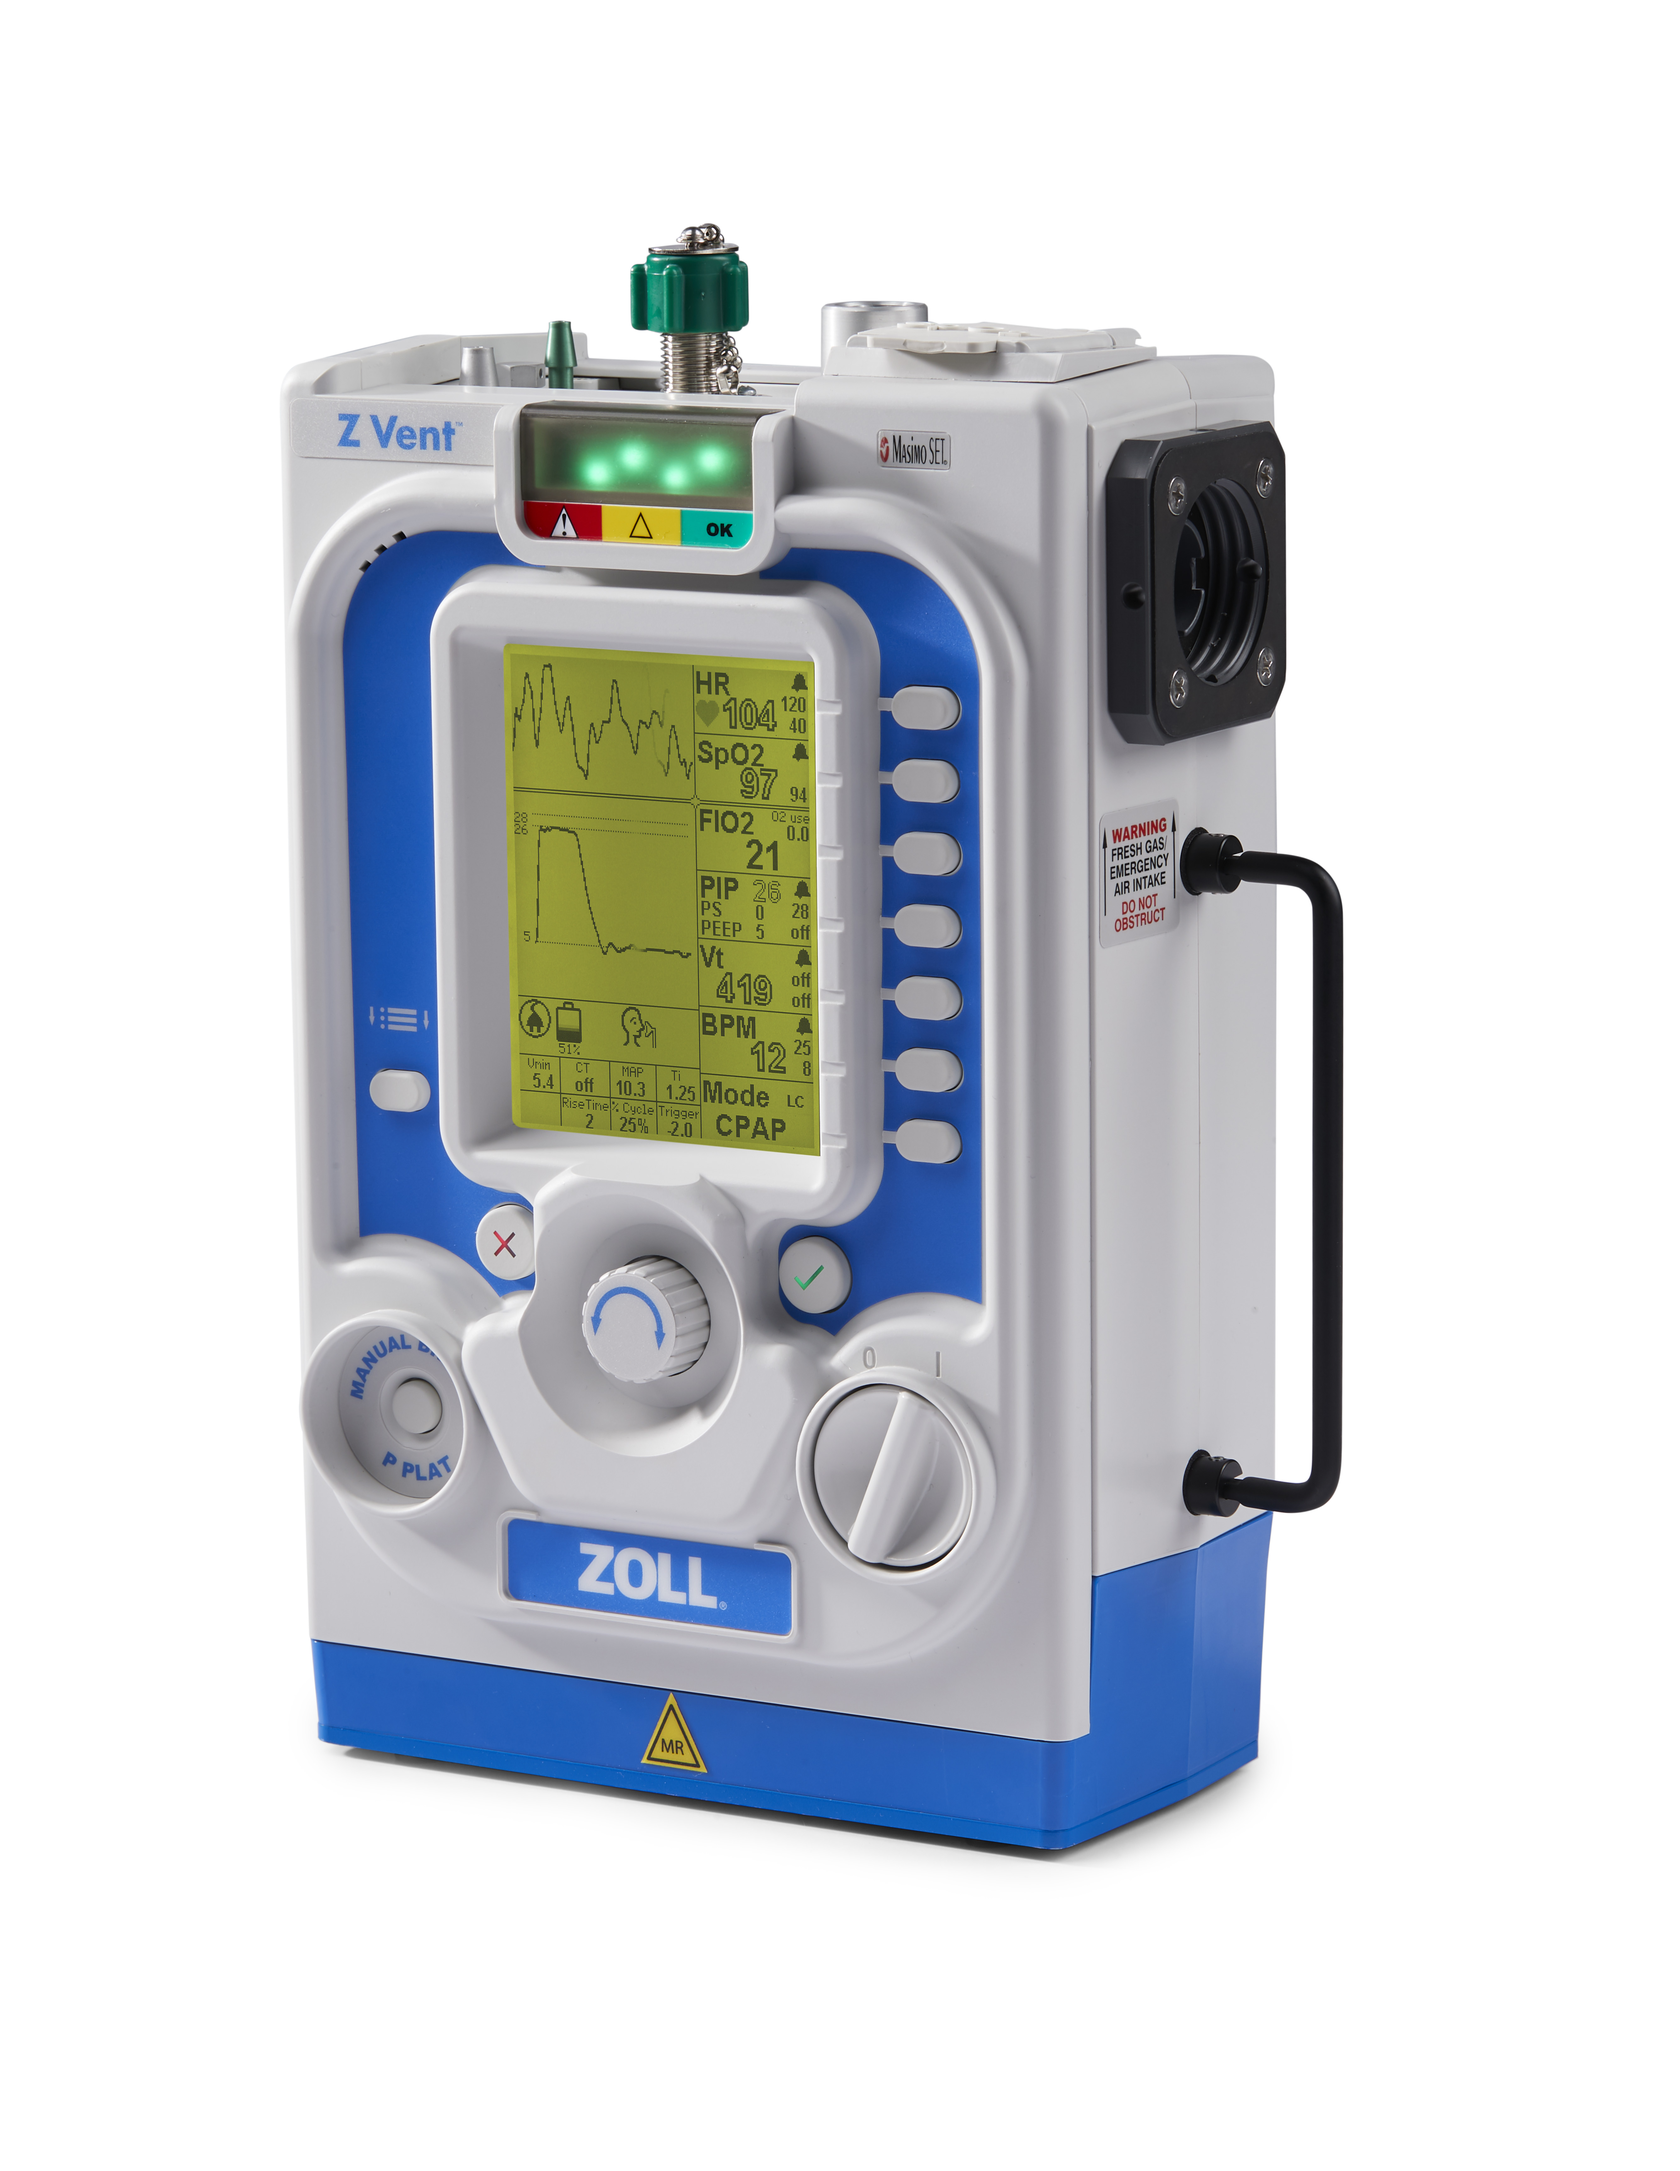
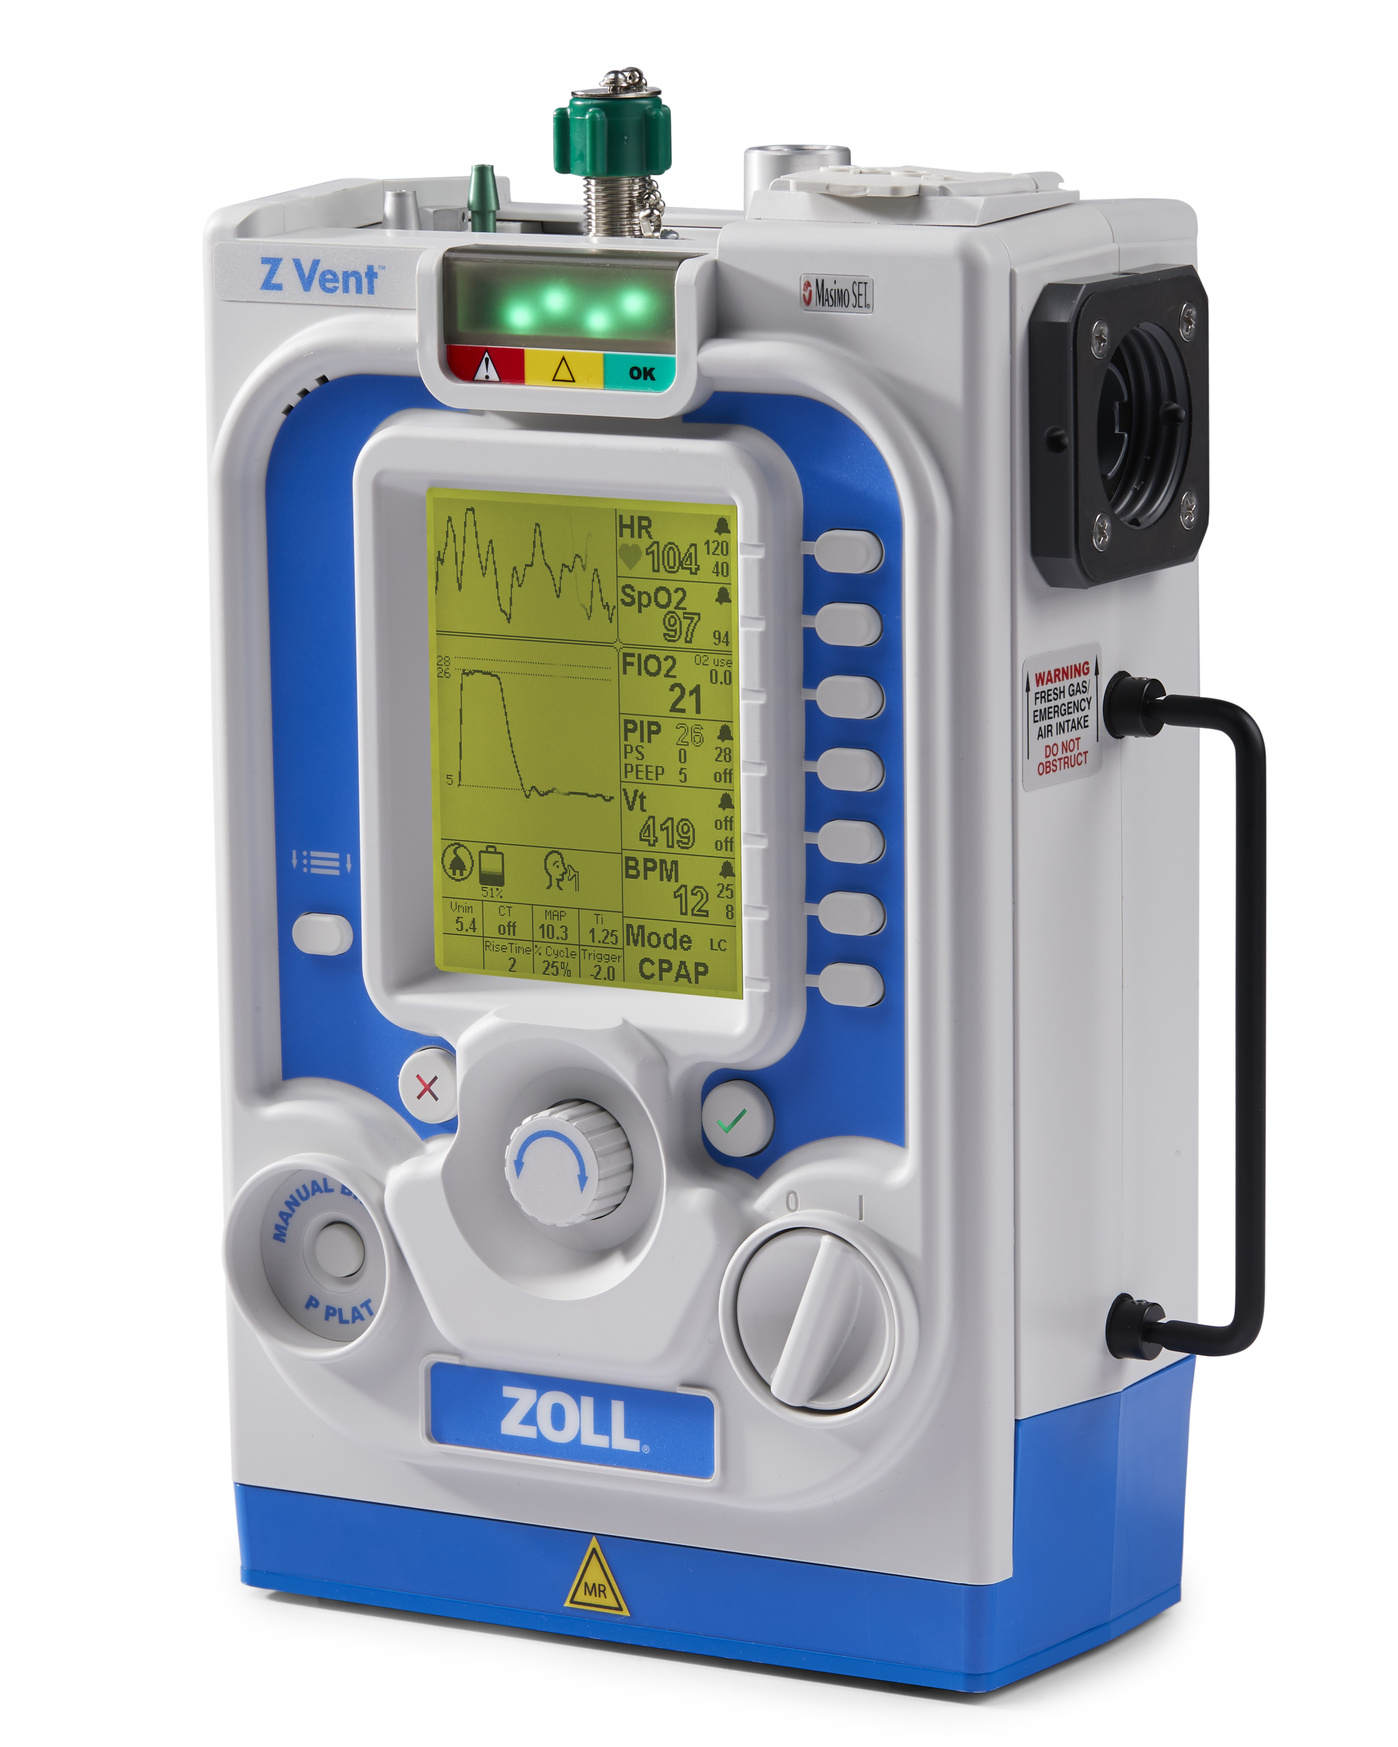
Cropped images and re-added horizontal row to entries on projects page.

diff --git a/projects.html b/projects.html
@@ -35,6 +35,7 @@
 
             <div id ="entries">
               <h2>ZOLL Ventilator Graphics | Winter 2025</h2>
+              <hr>
               <p>I designed new labeling and contributed to the User Manual for the <a href="https://www.zoll.com/en-us/products/emergency-care/ventilators/z-vent" target="blank">ZOLL Z Vent device</a>. This included creating a repository of device screens and icons in Adobe Illustrator that could easily be manipulated during a live working session to help flesh out proposed changes.</p>
               <img src="/portfolio/images/ZVent_Str_Angle.jpg" style="width:40%" class="center">
             </div>
@@ -49,6 +50,7 @@
 
             <div id="entries">
               <h2>Experimenting in the Bedroom | Spring 2020</h2>
+              <hr>
               <p>As the final project that I would complete as an undergraduate, I wanted to do something to affect change in a community I was embedded in. Other problem spaces that I considered working with included digital surveillance and a lack of personal privacy, as well as issues raised by the COVID-19 pandemic.</p>
               <p>This project consolidates knowledge, experience, and unmet needs from the greater community of queer and gender non-conforming individuals through my social networks. I utilized a set of anonymous surveys to collect this stakeholder feedback and to co-design with the community.</p>
               <img src="/portfolio/projectfiles/thesis/SP pinup.png" style="width:75%" class="center">
@@ -60,6 +62,7 @@
 
             <div id="entries">
               <h2>INTERVENTIONS | Spring 2020</h2>
+              <hr>
               <p>Environmental racism, food injustice, and waste colonialism are all systematic ways in which the marginalized are oppressed. By taking advantage of their inability to fight back, those with can further the gap between themselves and those without. While the systems and policies that produce these conditions vary, the points of intervention can often overlap at a protest.</p>
               <img src="/portfolio/projectfiles/trojan/trojan.jpg" style="width:75%" class="center">
               <p>From its initial conception, this project was meant to create an experience so that victims of environmental injustices can ground those with power into their realities. Walking in someone’s footsteps has a stronger impact than simply communicating statistics, which can feel more abstract. The common thread between all of the group members’ concepts was a desire to protect and empower those who were pushing for change.</p>
@@ -81,24 +84,26 @@
             </div>
 
             <div id="entries">
-              <h2>Human Factors Engineering <a href="https://www.jnjmedicaldevices.com/en-US/companies/depuy-synthes" target="_blank">@ Johnson & Johnson</a> | Fall 2019 </h2>
+              <h2>Human Factors Engineering @ Johnson & Johnson IDHF | Fall 2019</h2>
+              <hr>
               <p>Human Factors Engineering (HFE) is a discipline that aims to improve ease of use and mitigate risk of user error, particularly in the nuclear, aerospace, and medical industries.</p>
-              <p>During the duration of my Arch Away semester, I had the opportunity to work for DePuy Synthes, one of the many companies under the Johnson & Johnson umbrella. As one of the largest manufacturers of orthopedic implants and neurosurgery products, DePuy Synthes has ongoing projects in trauma and spine, which I was able to support as a co-op.</p>
+              <p>During the duration of my Arch Away semester, I had the opportunity to work for <a href="https://www.jnjmedtech.com/en-US/companies/depuy-synthes" target="_blank">Depuy Synthes</a>, one of the many companies under the Johnson & Johnson umbrella. As one of the largest manufacturers of orthopedic implants and neurosurgery products, DePuy Synthes has ongoing projects in trauma and spine, which I was able to support as a co-op.</p>
               <img src="/portfolio/projectfiles/deliverable timeline.png" style="width:75%" class="center">
               <p>I worked within the Industrial Design and Human Factors (IDHF) department, which leads contextual research to discover unmet user needs, creates usability specifications and requirements, and iteratively tests with stakeholders throughout a robust formative and summative usability process. The team also designs and evaluates user interfaces (hardware and software) for medical devices.</p>
               <p>
                 <b>Cool stuff I got to do:</b>
                 <ul>
-                  <li>Conducted Use-Related Risk Analysis  for orthopedic/trauma products.</li>
-                  <li>Ensured products aligned with  best practice for human-centered design principles.</li>
+                  <li>Conducted Use-Related Risk Analysis for orthopedic/trauma products.</li>
+                  <li>Ensured products aligned with best practice for human-centered design principles.</li>
                   <li>Produced FDA-compliant user testing protocol and documentation.</li>
-                  <li>Developed design recommendations from user insights.</li>
+                  <li>Developed design recommendations from early formative user feedback.</li>
                 </ul>
               </p>
             </div>
 
             <div id="entries">
               <h2>AGRIculture | Summer 2019</h2>
+              <hr>
               <p>This project aimed to design a lightweight and affordable hydroponics system for use in local communities, in a way that address the socioeconomic inequalities inherent in food deserts so that the large-scale harms of industrialized agriculture can also be minimized.</p>
               <p>In terms of the pre-existing approaches in this problem space, most hydroponic systems are extremely cost-ineffective and rarely accommodate subsistence crops. Ethnographic research with the Sanctuary for Independent Media had also established that certain methods of employing hydroponic technology are unsuccessful and will misalign with the needs of the community. Thus, the goals of this proposal aim to fill this unmet niche.</p>
               <p>
@@ -108,11 +113,13 @@
 
             <div id ="entries">
               <h2>NSF Research Project | Summer 2019</h2>
+              <hr>
               <p>In this project, I worked with faculty and graduate-level researchers, who interviewed both students and faculty at North American universities about their experiences in engineering school. I was responsible for conducting interviews compliant with NSF human research guidelines and transcribing those interviews.</p>
             </div>
 
             <div id="entries">
               <h2>Opening the Black Box of Gendered Restrooms | Spring 2019</h2>
+              <hr>
               <p>This project, mainly meant to be more of a provocative social science/art project, was created as part of Prof. Schaffer's "Gender, Science, and Technology" class. At the time, there was a great deal of discussion in both the political and social spheres regarding gender-neutral bathrooms and transgender rights.</p>
               <img src="/portfolio/projectfiles/gst/top.png" style="width:75%" class="center">
               <p>In the design itself, all users enter from one entrance into an antechamber. They filter into individual spaces, each equipped with a toilet, sink, trash bin, menstrual supplies, and baby changing station. They can additionally choose to exit through a separate door, avoiding interaction with others in the public bathroom.</p>
@@ -125,6 +132,7 @@
 
             <div id="entries">
               <h2>The Easy-Slice | Fall 2018</h2>
+              <hr>
               <p>This product is an educational tool primarily designed for students in culinary classes. It consists of a cutting board and a chef's knife with a specialized handle that encourages proper knife-grip and slicing technique through muscle memory.</p>
               <img src="/portfolio/projectfiles/slice/chop.gif" style= "width: 75%" class="center">
               <p>Both the knife and handle were redesigned to meet the needs of our users. The handle, in particular, is meant to be more comfortable than traditional knife handles. However, it will feel uncomfortable if the user holds the knife with an improper grip. This final design was created through observation as well as interviews with culinary experts and educators.</p>
@@ -139,6 +147,7 @@
 
             <div id = "entries">
               <h2>Historical Design Series | Fall 2018</h2>
+              <hr>
               <img src="/portfolio/images/Coffee Pot v30.png"class="center">
               <p>Operating off a design brief, I was constrained with the task of emulating the style of prominent ceramics artist Eva Zeisel. This model was entirely created from a series of sketches and ultimately modeled in a CAD program.</p>
               <img src="/portfolio/images/Coffee Pot exploded.png"class="center">
@@ -156,12 +165,14 @@
 
             <div id = "entries">
               <h2>Analyses of Science Fiction in Cinema | Fall 2018</h2>
+              <hr>
               <p>In this course with Prof. Langdon Winner, we evaluated the way technology leaves an impression on the public psyche, through notions of science fiction.</p>
               <p><a href="/portfolio/projectfiles/Fear of Science Fact.pdf" target="_blank">>> [PDF] Science Fiction as a manifestion of public fears of Science Fact</a></p>
             </div>
 
             <div id = "entries">
               <h2>Integrating Renewable Energy into the U.S. Power Grid | Spring 2018</h2>
+              <hr>
               <p>This report was an analysis of the infrastructure of existing transmission mechanisms and ways in which new energy sources may be integrated. Renewable energy sources were compared with older nonrenewables in a cost-benefits analysis. We also examined costs of adapting the grid from an economical, environmental, and social standpoint.</p>
               <p>
                 <a href="/portfolio/projectfiles/Integrating Renewable Energy into the U.S. Power Grid.pdf" target="_blank">>> [PDF] Report</a><br>
@@ -171,6 +182,7 @@
 
             <div id = "entries">
               <h2>An Analysis of Accessibility in NYC's Public Transit | Fall 2017</h2>
+              <hr>
               <p>An analysis of the design and efficacy of the New York City transit system in serving the needs of those with physical disabilities. Using data and reports from the MTA, censuses, and previous studies, I compared the city's transit system with others of the same time period, as well as developments that have been made since then. This report also includes and analysis of current accomodations (such as ramps and elevators) and reccomendations for integrating these.</p>
               <p><a href="/portfolio/projectfiles/Accessibility in NYC (or the Lack Thereof).pdf" target="_blank">>> [PDF] Accessibility in NYC (or the Lack Thereof) </a></p>
             </div>

diff --git a/css/style.css b/css/style.css
@@ -96,10 +96,11 @@ img {
 img.ball {
   display: inline-block;
   object-fit: cover;
+  max-width: 10vw;
   clip-path: circle(20%);
   background-color: var(--bgColor);
-  border-width: 5px;
-  border-color: var(--navbarColor);
+  /* border-width: 5px;
+  border-color: var(--navbarColor); */
 }
 
 /*Settings wrapping text. */
@@ -234,9 +235,8 @@ p{
     text-shadow: 2px 2px var(--linkColor);
 }
 
-/*If an element is taller than the element containing it,
-and it is floated, it will overflow outside of its container.
-Use the "clearfix" hack to fix this*/
+/*If an element is taller than the element containing it, and it is floated, 
+it will overflow outside of its container. Use the "clearfix" hack to fix this*/
 .clearfix {
   overflow: auto;
 }
